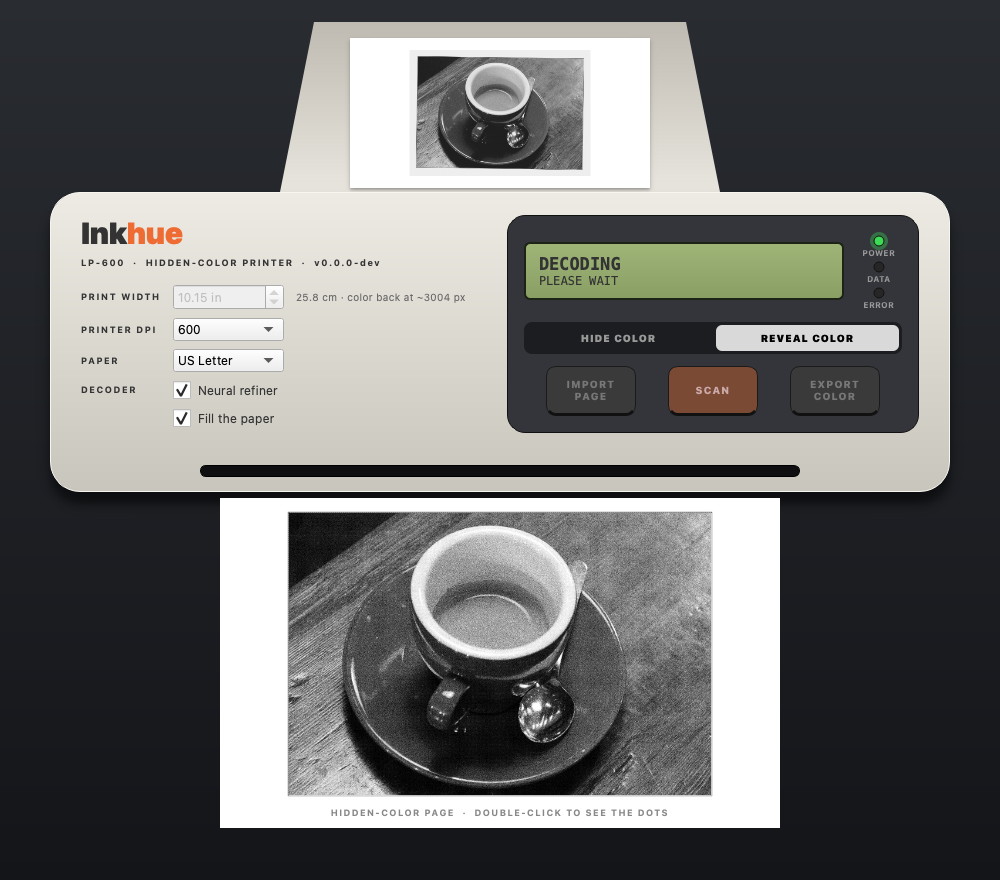
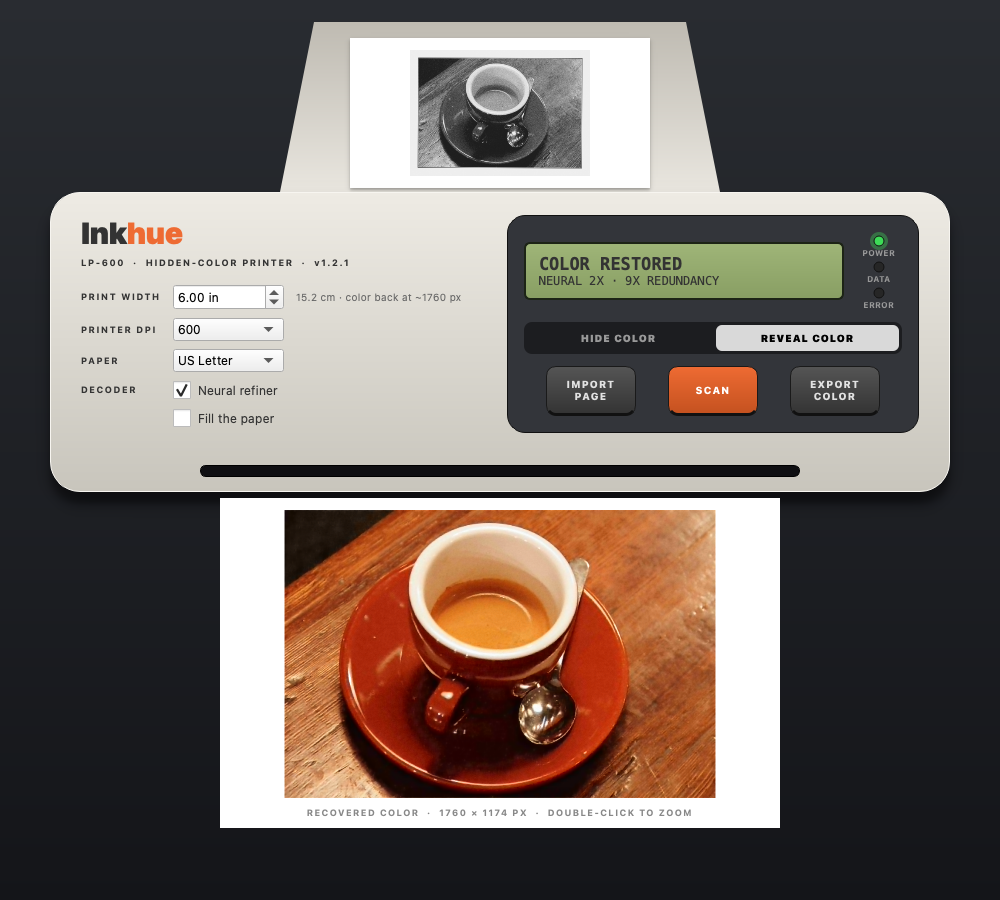
README screenshot: wait for decoding to finish, show the release version
The old screenshot caught the app mid-decode ("DECODING · PLEASE WAIT",
still the black-and-white page) and showed v0.0.0-dev: it was taken after a
fixed delay, and fill-the-paper had made the page slower to process.

Changed region(s): [[0.031, 0.0614, 0.961, 0.9511]]

diff --git a/scripts/readme_images.py b/scripts/readme_images.py
@@ -61,31 +61,50 @@ def compare():
     canvas.save(ASSETS / "compare.png", optimize=True)
 
 
-def screenshot():
-    from PySide6.QtCore import QTimer
+def screenshot(version=None):
+    """assets/screenshot.png: the app right after revealing the color (waits for the work to finish,
+    not for a fixed time). `version` sets the version shown on the printer, e.g. the latest release."""
+    import time
+
     from PySide6.QtWidgets import QApplication
 
-    from inkhue.gui.main import Printer
-    app = QApplication([])
-    w = Printer()
-    w.resize(1000, 880)
+    from inkhue import _version
+    if version:
+        _version.__version__ = version
+    from inkhue.gui import main as gui_main
+    gui_main.__version__ = _version.__version__
+    app = QApplication.instance() or QApplication([])
+    w = gui_main.Printer()
+    w.resize(1000, 900)
     w.show()
+
+    def wait(cond, timeout=300):
+        end = time.time() + timeout
+        while not cond():
+            if time.time() > end:
+                raise TimeoutError("app did not finish")
+            app.processEvents()
+            time.sleep(0.05)
+
     src = ASSETS / "_coffee.png"
     cv2.imwrite(str(src), cv2.cvtColor(data.coffee(), cv2.COLOR_RGB2BGR))
-    steps = iter([lambda: w.feed(str(src))] + [None] * 6 + [lambda: w.test_cycle()] + [None] * 9 +
-                 [lambda: (w.grab().save(str(ASSETS / "screenshot.png")), src.unlink(), app.quit())])
-
-    def tick():
-        s = next(steps)
-        if s:
-            s()
-
-    t = QTimer()
-    t.timeout.connect(tick)
-    t.start(700)
-    app.exec()
-
-
+    try:
+        w.fill.setChecked(False)  # a moderate page keeps this quick; the picture looks the same
+        w.width_in.setValue(6.0)
+        w.feed(str(src))
+        wait(lambda: w.page is not None and not w.busy)
+        w.test_cycle()
+        wait(lambda: w.color is not None and not w.busy)
+        assert "COLOR RESTORED" in w.lcd.text(), w.lcd.text()
+        for _ in range(40):  # let the sheet finish sliding out of the printer
+            app.processEvents()
+            time.sleep(0.05)
+        w.width_in.clearFocus()
+        app.processEvents()
+        w.grab().save(str(ASSETS / "screenshot.png"))
+    finally:
+        src.unlink(missing_ok=True)
+        w.close()
 
 
 def reveal_gif(width=540, frames=16):
@@ -178,5 +197,7 @@ if __name__ == "__main__":
     reveal_gif()
     gallery()
     document_demo()
-    screenshot()
+    import subprocess
+    tag = subprocess.run(["git", "describe", "--tags", "--abbrev=0"], capture_output=True, text=True).stdout.strip()
+    screenshot(tag.lstrip("v") or None)  # show the released version, not 0.0.0-dev
     print("wrote assets/compare.png, reveal.gif, gallery.png, screenshot.png")

diff --git a/README.md b/README.md
@@ -59,6 +59,8 @@ Photos: public domain / CC0 (NASA, scikit-image).</sub>
 
 Upside down, a little crooked, written on? All fine.
 
+<div align="center"><img src="assets/screenshot.png" width="720" alt="The Inkhue app after revealing the color of a scanned page"></div>
+
 ## Features
 
 - 🖨 **Printer-style app** for macOS, Windows and Linux

diff --git a/README.zh-CN.md b/README.zh-CN.md
@@ -43,6 +43,8 @@
 
 纸放反了、放歪了、写过字？都没关系。
 
+<div align="center"><img src="assets/screenshot.png" width="720" alt="Inkhue 应用：扫描后还原出彩色"></div>
+
 ## 安装
 
 | 系统 | 安装包 | 安装位置 |
